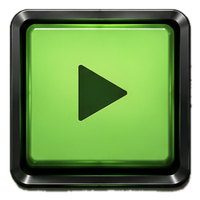
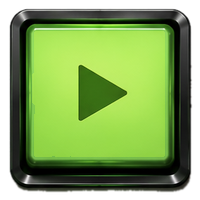
Brighten the lit Play cap; default Tone Map to half the window
Play was the only cap whose face didn't match its own lamp. Measured across
the set, each face sits close to its lamp's mean luminance - Stop 121 vs
117, Loop 184 vs 185, Restart 223 vs 214 - but Play read 146 against a lamp
of 167, and duller in hue. So the mismatch was in the source art, not the
crop.

The face plate is brightened with a per-channel gamma lift, which holds
0 -> 0 and 255 -> 255, so the specular highlight and the black glyph both
survive where a plain multiply would clip the highlight flat. The plate is
found geometrically - largest saturated blob, holes filled to take in the
glyph, then eroded off the bezel - because a colour-threshold mask also
caught glow-lit bezel pixels and blotched the bezel green.

Tone Map now fills half the free vertical space rather than all of it.
Filling the window made a six-amp library look like the whole app was one
chart with nothing left below it. The lower clamp is what makes "unless
there are a lot of amps" fall out on its own: once there are enough rows
that half the space can't give each 26px, the height stops shrinking and
the plot grows past half and scrolls. The grip still drags taller.

Mutation-verified: raising the fraction to 1.0 fails exactly the test that
covers it.

Claude-Session: https://claude.ai/code/session_01UxC6LkXERF29NQW1wRYXD3

Changed region(s): [[0.15, 0.57, 0.84, 0.81], [0.39, 0.3, 0.66, 0.63]]

diff --git a/src/renderer/src/components/ToneMapView.tsx b/src/renderer/src/components/ToneMapView.tsx
@@ -57,6 +57,22 @@ const TONE_ORDER = ['clean', 'crunch', 'overdrive', 'distortion', 'hi_gain', 'fu
 const PLOT_BOTTOM_GUTTER = 104
 /** Past this, rows are mostly empty space again and the dots stop growing with them. */
 const MAX_ROW_HEIGHT = 96
+/** Share of the free vertical space the map takes by default; drag the grip for more. */
+const DEFAULT_HEIGHT_FRACTION = 0.5
+
+/**
+ * Row height that fills half the free vertical space, bounded both ways.
+ *
+ * Half rather than all of it: filling the window made a six-amp library look like the whole app
+ * was one chart, with nothing left on screen below. The lower clamp is what makes "unless there
+ * are a lot of amps" fall out on its own — once there are enough rows that half the space can't
+ * give each 26px, the height stops shrinking and the plot grows past half and scrolls instead.
+ */
+export function autoRowHeightFor(rowCount: number, availableHeight: number): number {
+  if (rowCount <= 0 || availableHeight <= 0) return TONE_GRID_ROW_HEIGHT
+  const usable = availableHeight * DEFAULT_HEIGHT_FRACTION - TONE_GRID_CHROME_HEIGHT
+  return Math.min(Math.max(usable / rowCount, TONE_GRID_ROW_HEIGHT), MAX_ROW_HEIGHT)
+}
 
 function toneColor(tone: string | null | undefined): string {
   if (!tone) return UNTYPED_COLOR
@@ -597,19 +613,12 @@ export function ToneMapView({
     // width change, or the zoom breadcrumb appearing.
   }, [rows.length, plotWidth, zoom])
 
-  /**
-   * Row height auto-fills the window, with a manual override.
-   *
-   * A library with only a handful of amps left most of the window empty at the fixed 26px row
-   * height. Rows now stretch to use whatever vertical space is actually free, and the dots grow
-   * with them (see `toneGridDotRadius`) so a taller row isn't just the same specks further
-   * apart. Dragging the grip sets an explicit height; "Fit" returns to following the window.
-   */
-  const autoRowHeight = useMemo(() => {
-    if (rows.length === 0 || availableHeight <= 0) return TONE_GRID_ROW_HEIGHT
-    const perRow = (availableHeight - TONE_GRID_CHROME_HEIGHT) / rows.length
-    return Math.min(Math.max(perRow, TONE_GRID_ROW_HEIGHT), MAX_ROW_HEIGHT)
-  }, [rows.length, availableHeight])
+  // Rows follow the window (see autoRowHeightFor) until the grip pins an explicit height. The
+  // dots grow with them via toneGridDotRadius, so a taller row isn't the same specks spread out.
+  const autoRowHeight = useMemo(
+    () => autoRowHeightFor(rows.length, availableHeight),
+    [rows.length, availableHeight]
+  )
 
   const rowHeight = rowHeightOverride ?? autoRowHeight
   const gridHeight = toneGridHeight(rows.length, rowHeight)

diff --git a/src/renderer/src/components/ToneMapView.test.ts b/src/renderer/src/components/ToneMapView.test.ts
@@ -12,7 +12,7 @@ import { describe, it, expect } from 'vitest'
 import { createElement } from 'react'
 import { renderToString } from 'react-dom/server'
 import type { NamFile } from '../types/nam'
-import { ToneMapView } from './ToneMapView'
+import { ToneMapView, autoRowHeightFor } from './ToneMapView'
 
 let counter = 0
 function capture(meta: Partial<NamFile['metadata']>): NamFile {
@@ -206,5 +206,54 @@ describe('ToneMapView zoom', () => {
   it('starts at the full range with no zoom breadcrumb', () => {
     const html = render(denseLibrary())
     expect(html).not.toMatch(/zoomed \d/)
+  })
+})
+
+/**
+ * Vertical sizing policy. The map fills half the free space so a small library doesn't read as
+ * "the whole app is one chart" — and past a certain row count it stops shrinking and grows
+ * instead, which is what "unless there are a lot of amps" means in practice.
+ */
+describe('autoRowHeightFor', () => {
+  const TALL = 900
+  const MIN = 26
+  const MAX = 96
+
+  it('stretches rows well past the minimum when there are few amps', () => {
+    expect(autoRowHeightFor(4, TALL)).toBeGreaterThan(MIN)
+  })
+
+  it('uses about half the free space, not all of it', () => {
+    const rows = 6
+    const used = autoRowHeightFor(rows, TALL) * rows
+    expect(used).toBeLessThanOrEqual(TALL * 0.5)
+    // ...and is actually using that space rather than defaulting small.
+    expect(used).toBeGreaterThan(TALL * 0.3)
+  })
+
+  it('stops shrinking once there are a lot of amps, so the plot grows and scrolls', () => {
+    // 40 rows cannot fit in half the window at the minimum height; height must clamp, not shrink.
+    expect(autoRowHeightFor(40, TALL)).toBe(MIN)
+    expect(autoRowHeightFor(200, TALL)).toBe(MIN)
+  })
+
+  it('never exceeds the maximum, however few amps or however tall the window', () => {
+    expect(autoRowHeightFor(1, 20000)).toBe(MAX)
+    expect(autoRowHeightFor(2, TALL)).toBeLessThanOrEqual(MAX)
+  })
+
+  it('falls back to the default before the window has been measured', () => {
+    expect(autoRowHeightFor(5, 0)).toBe(MIN)
+    expect(autoRowHeightFor(0, TALL)).toBe(MIN)
+    expect(autoRowHeightFor(-1, TALL)).toBe(MIN)
+  })
+
+  it('is monotonic: more amps never means taller rows', () => {
+    let previous = Infinity
+    for (const rows of [1, 2, 4, 8, 16, 32, 64]) {
+      const height = autoRowHeightFor(rows, TALL)
+      expect(height).toBeLessThanOrEqual(previous)
+      previous = height
+    }
   })
 })
